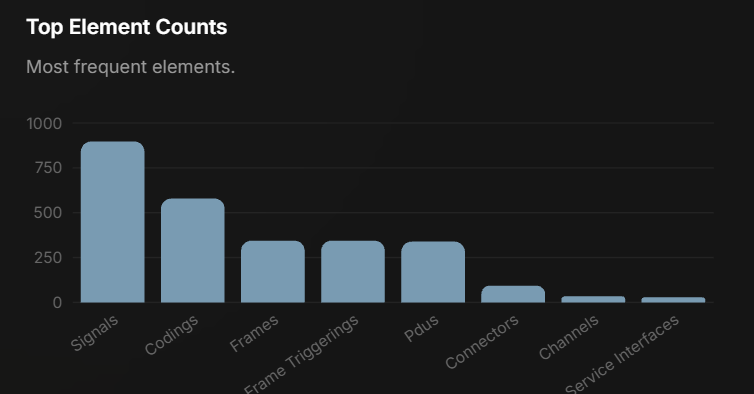
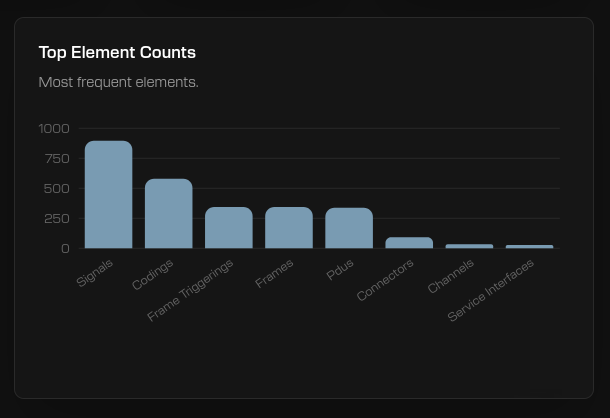
screenshots

diff --git a/slides.md b/slides.md
@@ -131,7 +131,6 @@ layout: default
 # Context & Problem
 
 
-
 - Automotive software follows the **V-Cycle** and standards such as **ASPICE**, **ISO 26262**, and **ISO 21434**, which require strong **traceability** across requirements, code, and tests.
 
 - Generating and maintaining these artifacts manually remains **high-effort**, and manual processes often lead to inconsistent results and weak traceability.
@@ -141,7 +140,7 @@ layout: default
 - Introducing AI can create **data-governance concerns** for organizations working with proprietary code and confidential requirements.
 
 
-<div v-click class="mt-8 p-4 border-l-4 border-[#f9996c] bg-[#f9996c]/5 rounded">
+<div v-click class="p-4 border-l-4 border-[#f9996c] bg-[#f9996c]/5 rounded">
 
 > **The need:** A platform that integrates AI agents into the software lifecycle, maintains end-to-end traceability, and supports flexible deployment from managed cloud services to fully self-hosted environments.
 
@@ -1390,9 +1389,9 @@ transition: view-switch
 </div>
 </div>
 
-<div class="flex justify-center mt-6" style="animation: slide-up 0.8s ease both; animation-delay: 0.6s">
-  <img :src="'/images/fibex1.png'" alt="communication matrix" class="w-[60%]" />
-  <img :src="'/images/fibex2.png'" alt="communication matrix bar chart" class="w-[40%]" />
+<div class="flex justify-start mt-6 gap-4" style="animation: slide-up 0.8s ease both; animation-delay: 0.6s">
+  <img :src="'/images/fibex1.png'" alt="communication matrix" class="w-[65%]" />
+  <img :src="'/images/fibex2.png'" alt="communication matrix bar chart" class="w-[28%]" />
 </div>
 
 ---
@@ -1407,18 +1406,20 @@ transition: view-switch
   </div>
 </div>
 
-<div style="animation: slide-up 0.8s ease both;">
+<div class="mt-8" style="animation: slide-up 0.8s ease both;">
 
-**Mapping Chunks to Requirements**
-<div class="grid grid-cols-2 gap-6 mt-4">
-<ul class="list-disc list-inside opacity-80 space-y-1 mt-2 text-sm">
-  <li>Extract components from the validated network architecture</li>
-  <li>Automatically match each component to the corresponding requirements</li>
+<div class="grid grid-cols-6 gap-4 items-center mt-10">
+<div class="col-span-2">
+  <div class="font-semibold text-base">Mapping Chunks to Requirements</div>
+  <ul class="list-disc list-inside opacity-80 space-y-1 mt-2 text-sm">
+    <li>Extract components from the validated network architecture</li>
+    <li>Automatically match each component to the corresponding requirements</li>
     <li>Ensures every network element is justified by a requirement</li>
-  <li>Spot coverage gaps in the requirements</li>
-</ul>
-<div class="flex justify-center mt-6" style="animation: slide-up 0.8s ease both; animation-delay: 0.6s">
-  <img :src="'/images/mapping.png'" alt="mapping" class="w-[100%]" />
+    <li>Spot coverage gaps in the requirements</li>
+  </ul>
+</div>
+<div class="col-span-4 flex justify-center" style="animation: slide-up 0.8s ease both; animation-delay: 0.6s">
+  <img :src="'/images/mapping.png'" alt="mapping" class="w-full" />
 </div>
 </div>
 </div>
@@ -1445,7 +1446,7 @@ transition: view-switch
   <li>SWE.6: Validate software requirements (generated or uploaded)</li>
 </ul>
 </div>
-<div>
+<div class="ml-6">
 
 **User Control**
 <ul class="list-disc list-inside opacity-80 space-y-1 mt-2 text-sm">
@@ -1459,7 +1460,7 @@ transition: view-switch
 </div>
 
 <div class="flex justify-center mt-6" style="animation: slide-up 0.8s ease both; animation-delay: 0.6s">
-  <img :src="'/images/validation.jpeg'" alt="validation" class="w-[60%]" />
+  <img :src="'/images/validation.png'" alt="validation" class="w-[65%]" />
 </div>
 
 ---